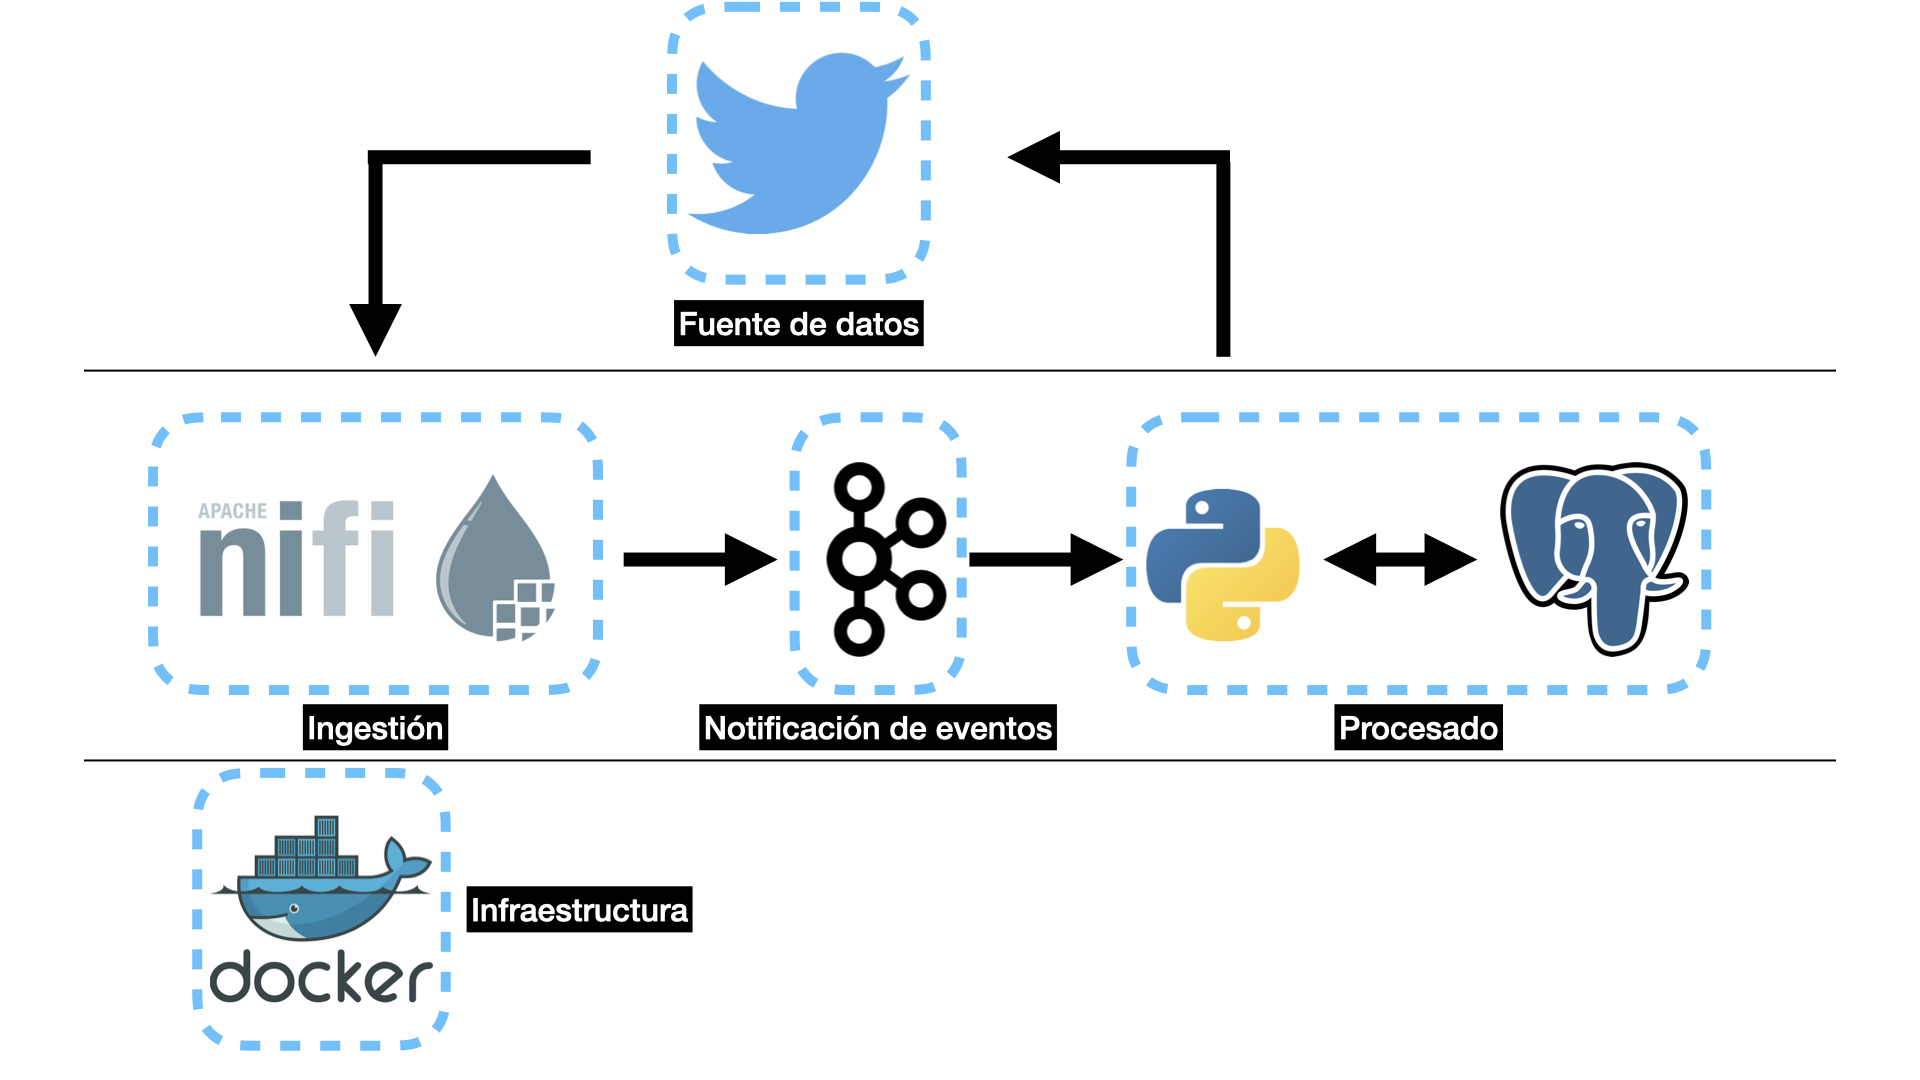
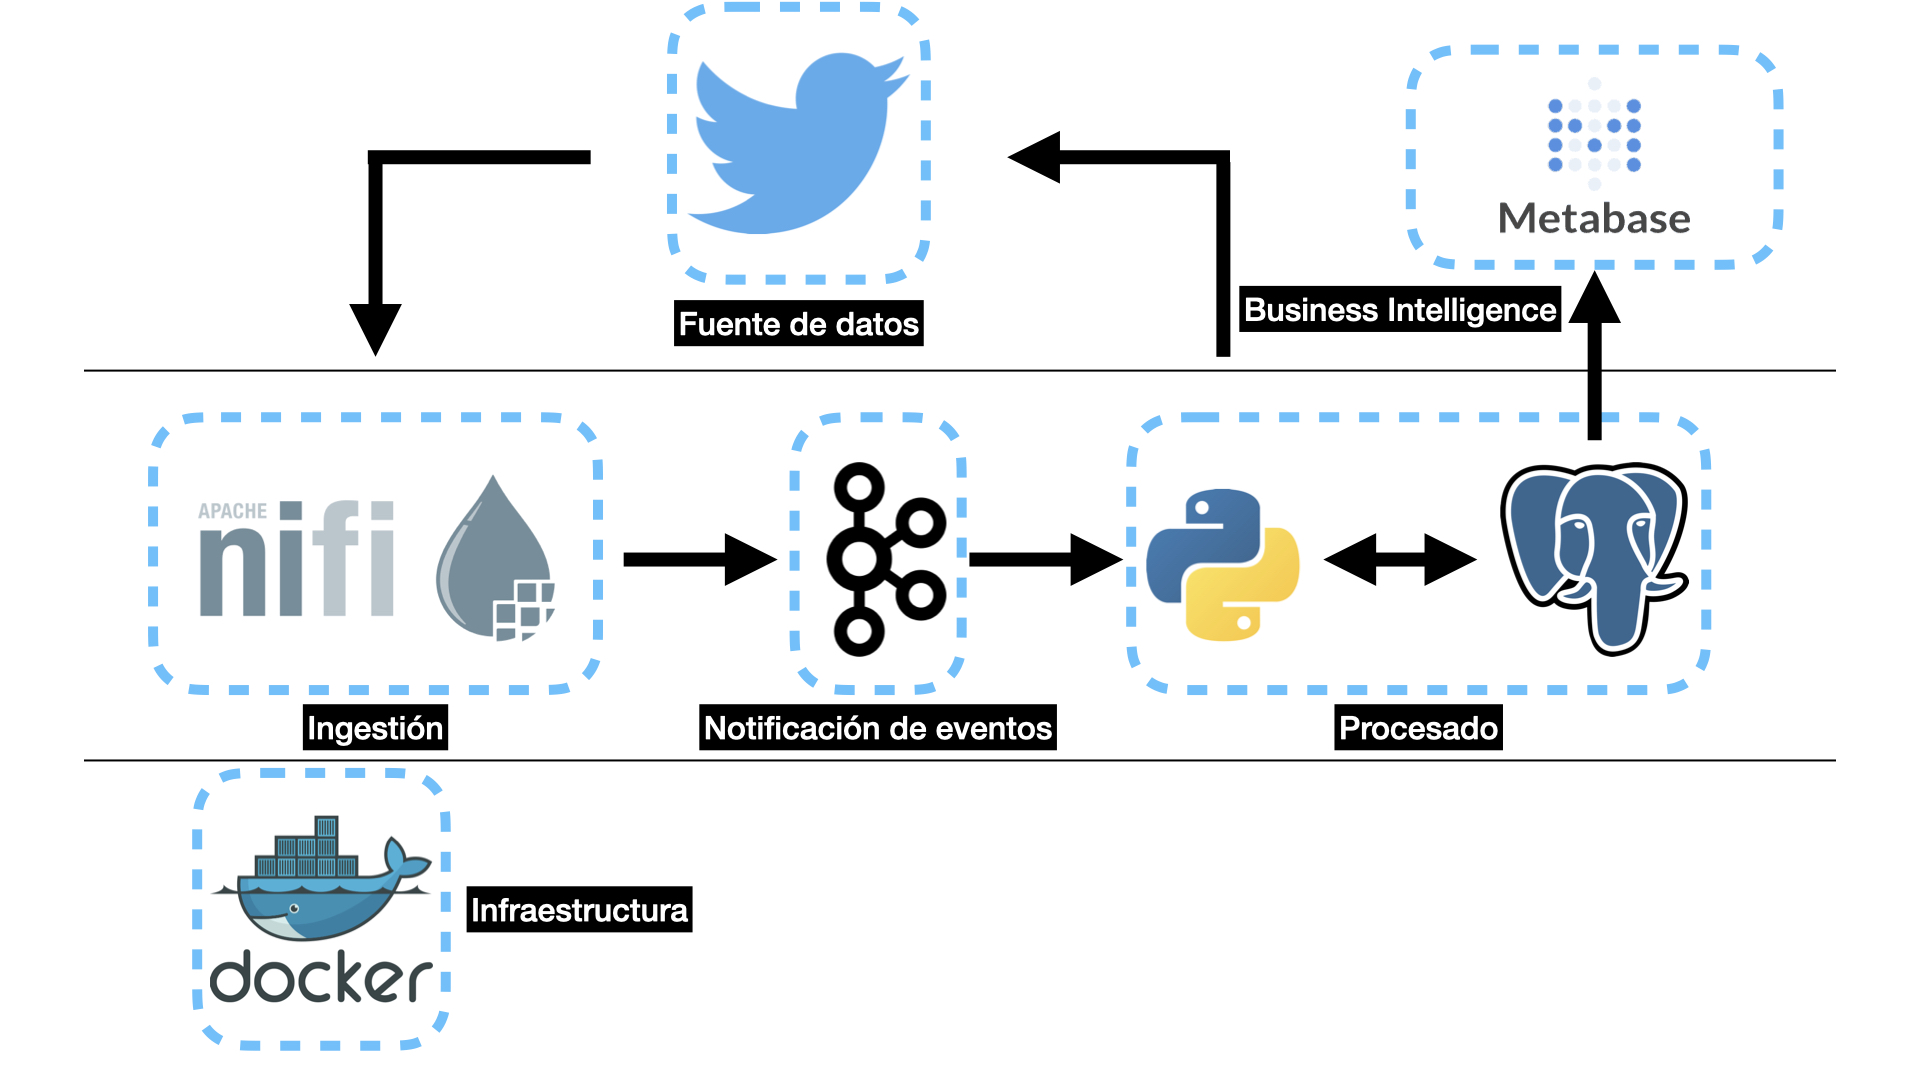
Git - Readme update

diff --git a/README.md b/README.md
@@ -140,7 +140,12 @@ La base de datos está configurada en el puerto 5432, en este MVP hemos prescind
     
     # select * from casas; 
 (Una vez estamos loggeados en la base de datos, ya podemos realizar consultas mediante SQL).
+#### 2.1.2.4) METABASE 
 
+Para acceder al panel de business Intelligence. Se debe realizar desde el navegador en la siguiente dirección http://localhost:3000 haciendo uso de las siguientes credenciales:
+<br>
+
+<img src="resources/Metabase.png"/>
 
 ## 2.2) Ejecución MVP data project en local
 
